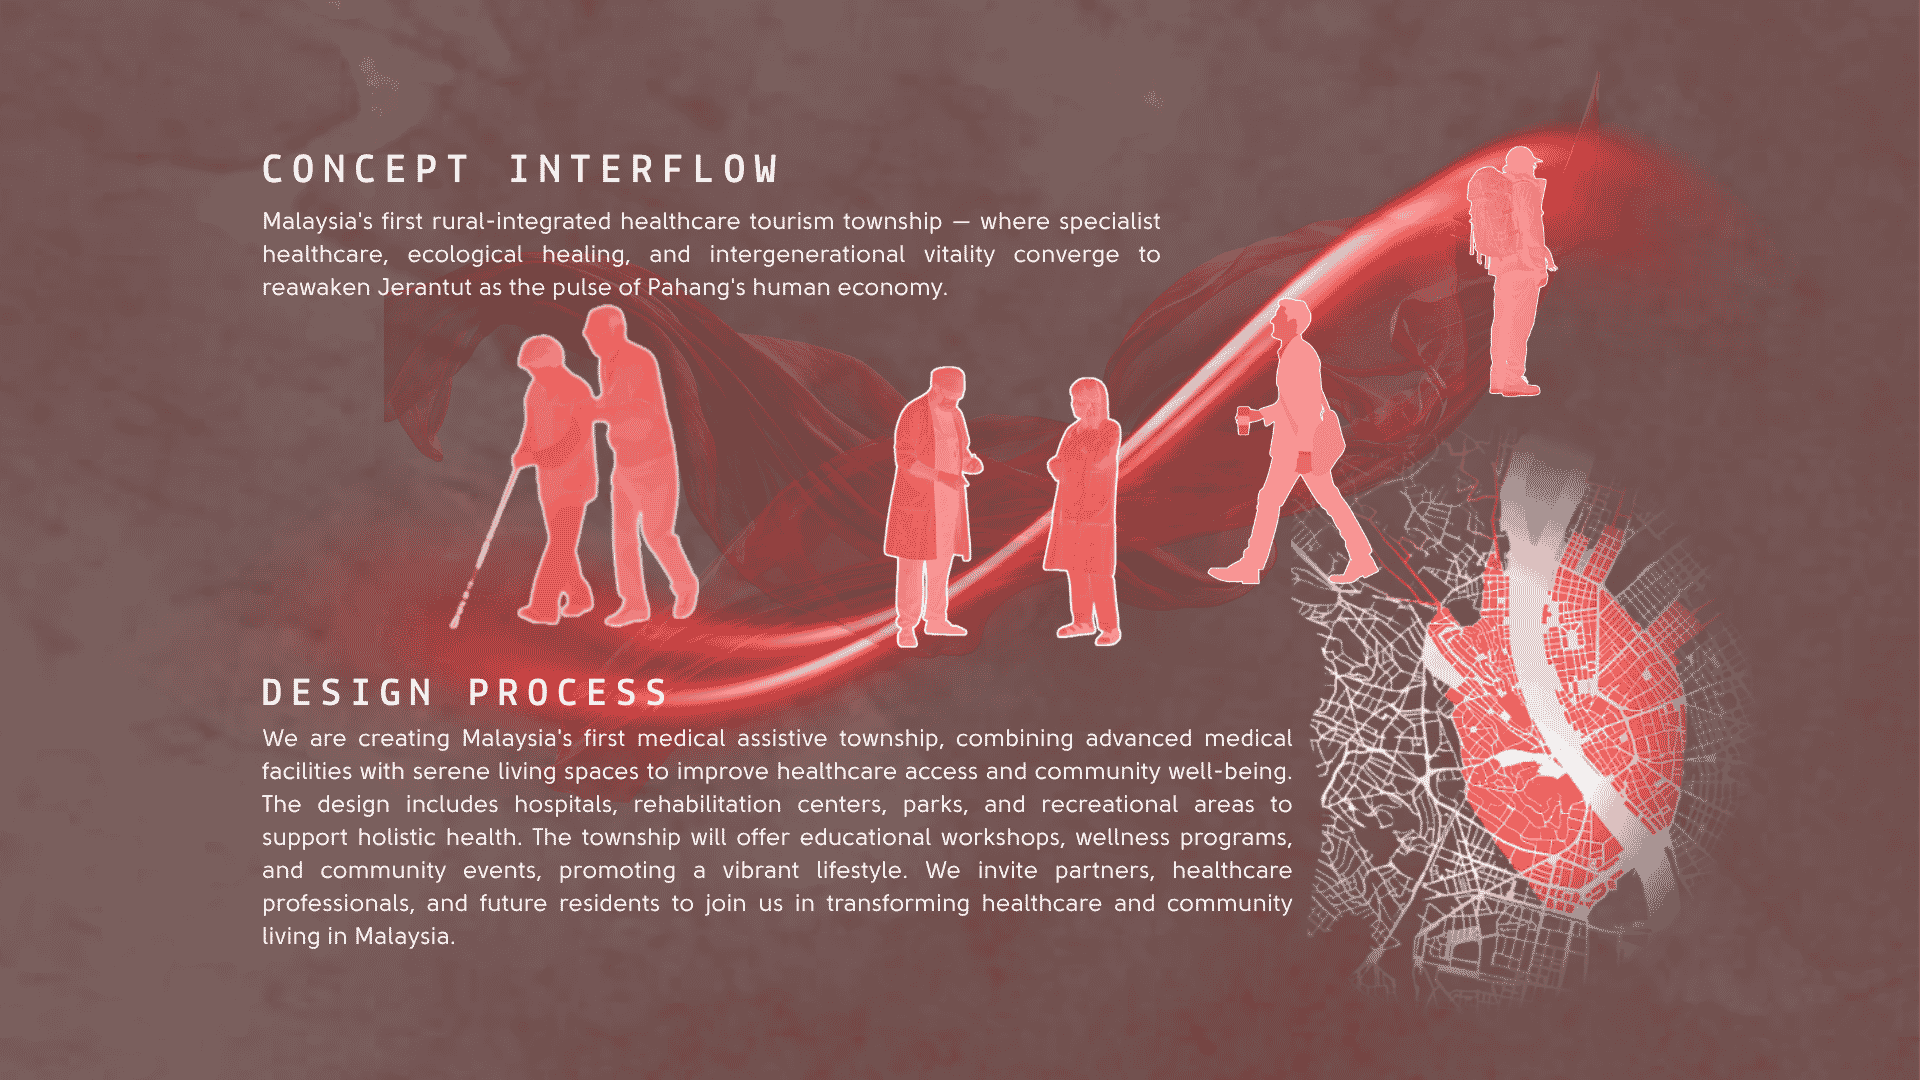
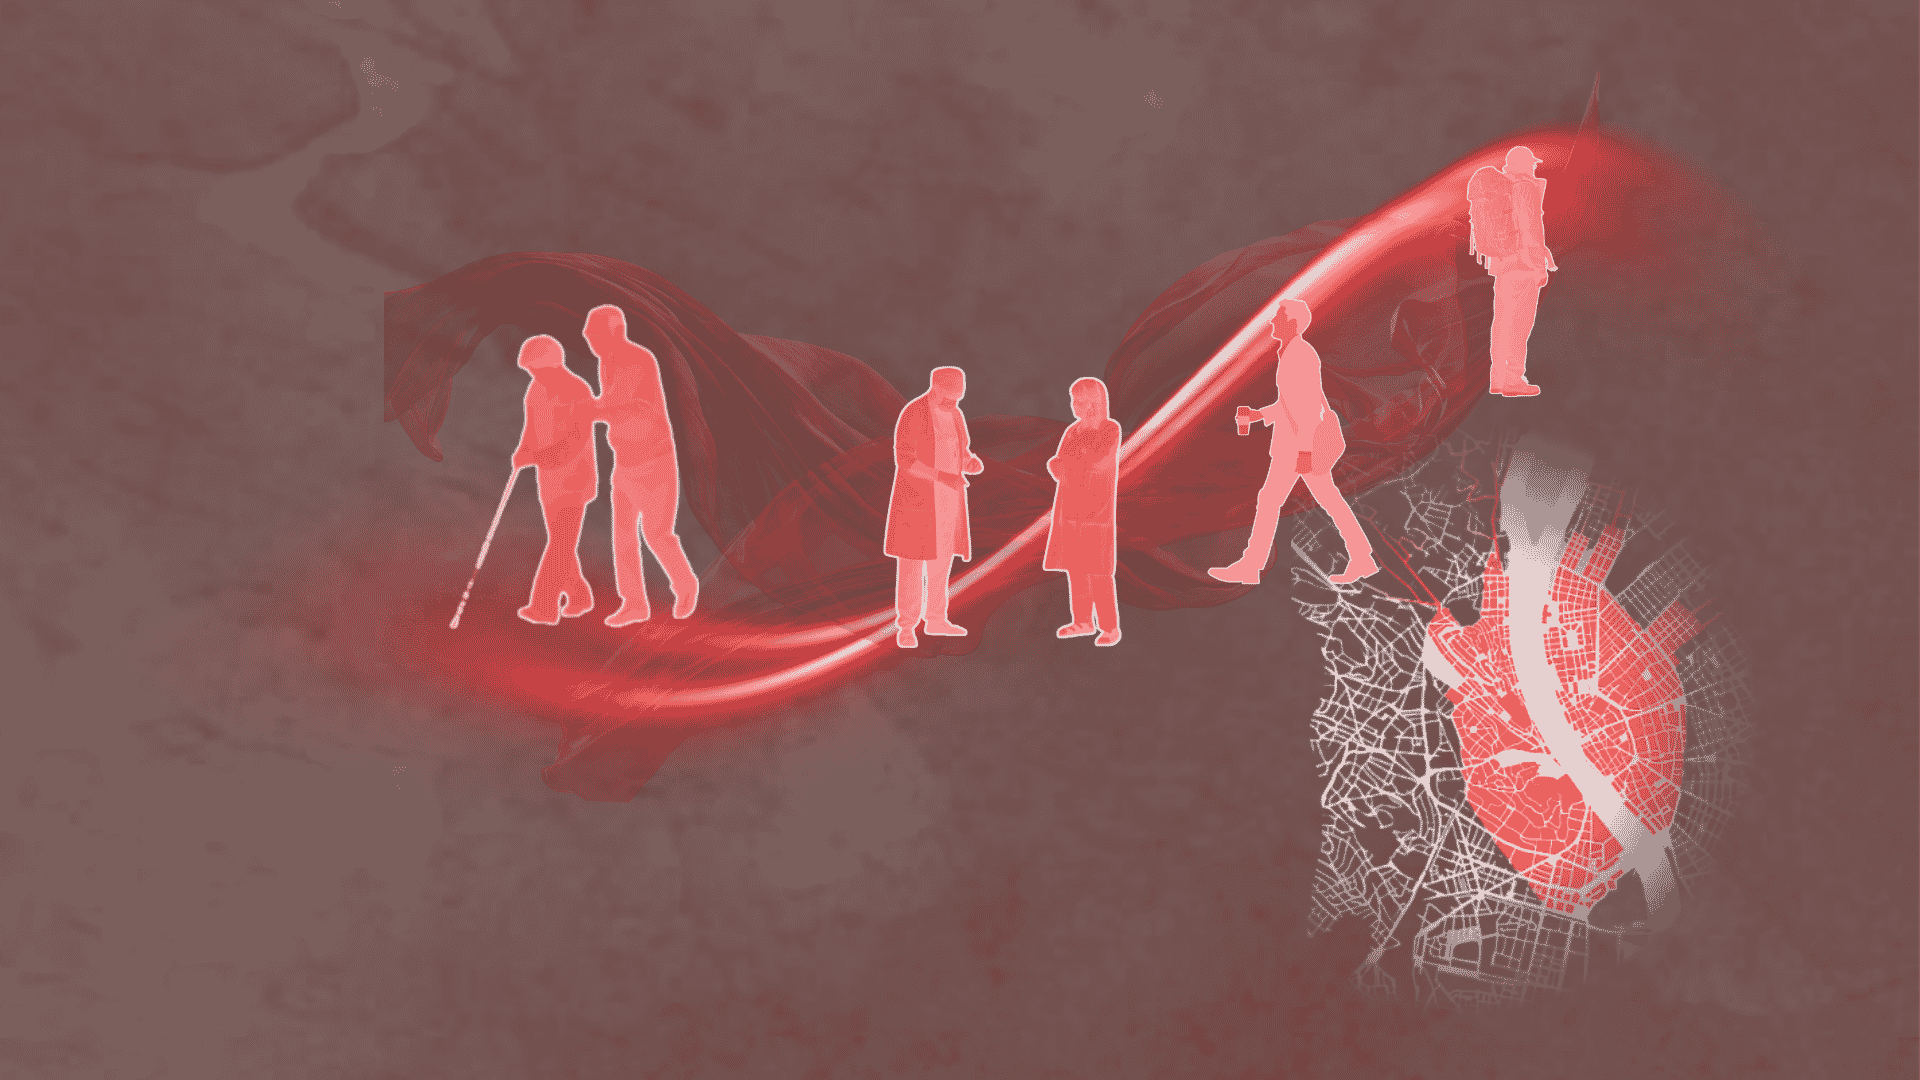
Add files via upload

Changed region(s): [[0.125, 0.0917, 0.9375, 0.8861], [0.7188, 0.4278, 0.875, 0.8556], [0.1875, 0.3361, 0.25, 0.4278]]

diff --git a/index.html b/index.html
@@ -17,6 +17,7 @@
   --nadi-gold: #C6A87C;      /* Champagne Gold */
   --nadi-forest: #4A7055;    /* Premium Eucalyptus Sage */
   --nadi-charcoal: #1C1A19;  /* Soft Warm Black */
+  --nadi-charcoal-light: #2A2A2A;
   
   /* Welcoming Earthy Neutrals */
   --nadi-cream: #F5F2EB;     /* Cashmere Cream (Main BG) */
@@ -100,17 +101,27 @@ section { padding: clamp(80px, 10vw, 140px) 0; position: relative; width: 100%; 
 
 /* ─── HERO CINEMATIC ─── */
 .hero {
-  min-height: 90vh; background: var(--nadi-cream) url('concept.png') center/cover no-repeat;
+  min-height: 90vh; background: var(--nadi-charcoal) url('concept.png') center/cover no-repeat;
   background-attachment: fixed; position: relative; display: flex; align-items: center; justify-content: center; text-align: center;
 }
-.hero-overlay { position: absolute; inset: 0; background: linear-gradient(to bottom, rgba(245,242,235,0.7) 0%, rgba(245,242,235,1) 100%); }
+/* Reverted to the dark cinematic overlay */
+.hero-overlay { position: absolute; inset: 0; background: linear-gradient(to right, rgba(28,26,25,0.95) 0%, rgba(28,26,25,0.7) 50%, rgba(28,26,25,0.4) 100%); }
 .hero-content { position: relative; z-index: 2; max-width: 1000px; padding-top: 40px; }
-.hero-title { font-family: 'Cormorant Garamond', serif; font-size: clamp(45px, 8vw, 110px); font-weight: 300; line-height: 1.05; color: var(--nadi-red); margin-bottom: 30px; }
+/* Changed hero text to light to pop against dark overlay */
+.hero-title { font-family: 'Cormorant Garamond', serif; font-size: clamp(45px, 8vw, 110px); font-weight: 300; line-height: 1.05; color: var(--nadi-pure); margin-bottom: 30px; }
 .hero-quote { font-family: 'Montserrat', sans-serif; font-size: clamp(12px, 2vw, 15px); font-weight: 600; letter-spacing: 3px; text-transform: uppercase; color: var(--nadi-gold); margin-bottom: 35px; line-height: 1.6; }
+
+/* ─── MEDIA & MAP EMBEDS (FIXED ALIGNMENT) ─── */
+.media-wrapper { position: relative; width: 100%; border-radius: 12px; overflow: hidden; box-shadow: 0 20px 50px rgba(0,0,0,0.1); border: 1px solid var(--nadi-sand); background: var(--nadi-pure); }
+.video-container { position: relative; padding-bottom: 56.25%; height: 0; overflow: hidden; }
+/* Forced 100% width and height on iframes */
+.video-container iframe { position: absolute; top: 0; left: 0; width: 100% !important; height: 100% !important; border: 0; }
+.map-iframe { width: 100% !important; height: clamp(350px, 50vw, 500px); border: 0; display: block; }
 
 /* ─── GRIDS & CARDS ─── */
 .grid-2 { display: grid; grid-template-columns: 1fr 1fr; gap: clamp(40px, 8vw, 80px); align-items: center; width: 100%; }
-.img-card { width: 100%; max-width: 100%; border-radius: 12px; box-shadow: 0 25px 60px rgba(0,0,0,0.08); transition: transform 0.6s cubic-bezier(0.2, 0.8, 0.2, 1); border: 1px solid var(--nadi-sand); }
+.grid-3 { display: grid; grid-template-columns: repeat(3, 1fr); gap: clamp(30px, 5vw, 40px); width: 100%; }
+.img-card { width: 100%; max-width: 100%; border-radius: 12px; box-shadow: 0 25px 60px rgba(0,0,0,0.08); transition: transform 0.6s cubic-bezier(0.2, 0.8, 0.2, 1); }
 .img-card:hover { transform: scale(1.02); box-shadow: 0 30px 60px rgba(0,0,0,0.12); }
 
 /* ─── STATS BAR ─── */
@@ -138,9 +149,24 @@ section { padding: clamp(80px, 10vw, 140px) 0; position: relative; width: 100%; 
 .pulse-list li:last-child { border-bottom: none; }
 .pulse-list li strong { color: var(--nadi-red); font-weight: 600; }
 
+/* ─── INTERACTIVE CLOSED LOOP CSS ENGINE (RESTORED TO DARK THEME) ─── */
+.ecosystem-matrix { display: grid; grid-template-columns: 1fr 1fr; gap: 30px; max-width: 1000px; margin: 0 auto; position: relative; padding: 60px 0; }
+.eco-node { background: var(--nadi-charcoal-light); border: 1px solid rgba(255,255,255,0.05); border-radius: 16px; padding: clamp(25px, 5vw, 40px); box-shadow: 0 20px 50px rgba(0,0,0,0.4); transition: all 0.5s ease; position: relative; z-index: 2; overflow: hidden; color: var(--nadi-pure); }
+.eco-node::after { content: ''; position: absolute; inset: 0; background: linear-gradient(135deg, transparent, rgba(198, 168, 124, 0.05)); opacity: 0; transition: opacity 0.5s; }
+.eco-node:hover { transform: translateY(-10px) scale(1.02); border-color: var(--nadi-gold); box-shadow: 0 30px 60px rgba(198, 168, 124, 0.15); }
+.eco-node:hover::after { opacity: 1; }
+.eco-icon { font-family: 'Cormorant Garamond', serif; font-size: 50px; color: var(--nadi-gold); margin-bottom: 20px; font-weight: 300; line-height: 1; }
+.eco-title { font-size: 18px; font-weight: 700; color: var(--nadi-pure); margin-bottom: 15px; text-transform: uppercase; letter-spacing: 2px; }
+.eco-desc { font-size: 14px; color: rgba(255, 255, 255, 0.7); line-height: 1.9; }
+
+/* The Rotating Center Core */
+.matrix-core { position: absolute; top: 50%; left: 50%; transform: translate(-50%, -50%); width: 160px; height: 160px; background: var(--nadi-charcoal); border-radius: 50%; border: 2px dashed var(--nadi-gold); display: flex; align-items: center; justify-content: center; text-align: center; font-size: 13px; font-weight: 700; letter-spacing: 3px; color: var(--nadi-red); z-index: 1; box-shadow: 0 0 40px rgba(0,0,0,0.8); }
+.matrix-core::before { content: ''; position: absolute; inset: 10px; border: 1px solid rgba(198, 168, 124, 0.3); border-radius: 50%; animation: spinSlow 20s linear infinite; }
+.matrix-core::after { content: ''; position: absolute; inset: -20px; border: 1px dashed rgba(198, 168, 124, 0.1); border-radius: 50%; animation: spinSlow 30s linear infinite reverse; }
+@keyframes spinSlow { 100% { transform: rotate(360deg); } }
+
 /* ─── CHARTS WRAPPER ─── */
 .chart-box { background: var(--nadi-pure); padding: clamp(20px, 4vw, 40px); border-radius: 12px; box-shadow: 0 15px 40px rgba(0,0,0,0.05); border: 1px solid var(--nadi-sand); width: 100%; position: relative; }
-/* Essential fix for Chart.js rendering blank inside tabs */
 .chart-container { position: relative; height: 400px; width: 100%; }
 .theme-dark .chart-box { background: var(--nadi-charcoal-light); border-color: rgba(255,255,255,0.05); box-shadow: 0 20px 60px rgba(0,0,0,0.4); }
 
@@ -163,9 +189,10 @@ section { padding: clamp(80px, 10vw, 140px) 0; position: relative; width: 100%; 
   .tab-buttons { display: grid; grid-template-columns: 1fr 1fr; width: 100%; gap: 10px; }
   .tab-btn { width: 100%; padding: 12px 5px; font-size: 10px; white-space: normal; line-height: 1.4; text-align: center; border-radius: 8px; }
 
-  .grid-2, .phase-panel { grid-template-columns: 1fr; width: 100%; }
+  .grid-2, .phase-panel, .ecosystem-matrix { grid-template-columns: 1fr; width: 100%; }
   .stats-bar { grid-template-columns: 1fr 1fr; margin-top: -30px; }
-  .hero-overlay { background: linear-gradient(to bottom, rgba(245,242,235,0.85) 0%, rgba(245,242,235,1) 100%); }
+  
+  .matrix-core { display: none; }
 
   .timeline-btn-group { display: flex; flex-direction: column; gap: 10px; border-bottom: none; margin-bottom: 40px; }
   .time-btn { border: 1px solid var(--nadi-sand); border-radius: 8px; padding: 15px; margin-bottom: 0; }
@@ -206,10 +233,10 @@ section { padding: clamp(80px, 10vw, 140px) 0; position: relative; width: 100%; 
     <div class="hero-overlay"></div>
     <div class="container relative">
       <div class="hero-content reveal visible" style="margin: 0 auto; text-align: center;">
-        <div class="eyebrow" style="justify-content: center;">A Visionary Masterpiece</div>
+        <div class="eyebrow" style="justify-content: center; color: var(--nadi-gold-light);">A Visionary Masterpiece</div>
         <h1 class="hero-title">Reawakening The<br><strong>Pulse of Jerantut</strong></h1>
         <div class="hero-quote">"A development that serves only one demographic is a facility. A development that serves all three simultaneously is a township."</div>
-        <p class="desc" style="margin: 0 auto;">
+        <p class="desc" style="color: rgba(244, 240, 234, 0.8); margin: 0 auto;">
           Born from a profound respect for Pahang’s natural heritage and a bold vision for its future, NADI emerges as Malaysia's premier rural-integrated healthcare tourism destination. We are meticulously weaving together specialist healthcare, ecological preservation, and intergenerational vitality to establish an unprecedented benchmark in sustainable, human-centric urban design.
         </p>
       </div>
@@ -263,14 +290,14 @@ section { padding: clamp(80px, 10vw, 140px) 0; position: relative; width: 100%; 
   </section>
 
   <!-- Demographics Chart -->
-  <section style="background: var(--nadi-sand);">
+  <section class="theme-sand">
     <div class="container grid-2">
       <div class="text-content reveal">
         <div class="eyebrow">The Structural Gap</div>
         <h2 class="title">Demographic <em>Imperative</em></h2>
         <p class="desc">The district faces a severe housing deficit of 7,876 units amid strong owner-occupier demand. Concurrently, Jerantut is transitioning into an aging society, with the 65+ demographic exceeding the 7% threshold. NADI's tripartite mission is a direct architectural response: to foster a resilient retirement ecosystem, capture the global wellness market, and staunch youth outmigration via high-yield technical employment and bespoke housing provisions.</p>
       </div>
-      <div class="chart-box reveal" style="transition-delay: 0.2s; border: none;">
+      <div class="chart-box reveal" style="transition-delay: 0.2s; background: var(--nadi-cream); border: none;">
         <div class="chart-container">
           <canvas id="housingChart"></canvas>
         </div>
@@ -292,13 +319,13 @@ section { padding: clamp(80px, 10vw, 140px) 0; position: relative; width: 100%; 
       </div>
       
       <div class="reveal" style="margin-bottom: 60px;">
-        <img src="FINAL LAYOUT NADI-1.png" alt="NADI Masterplan Final Layout" class="img-card" onerror="this.src='FINAL LAYOUT NADI-1.jpg'">
+        <img src="FINAL LAYOUT NADI-1.jpg" alt="NADI Masterplan Final Layout" class="img-card" onerror="this.src='FINAL LAYOUT NADI-1.png'">
       </div>
 
       <div class="grid-2 text-left mt-5" style="margin-top: 100px;">
         <div class="reveal">
           <div class="chart-box dark-panel">
-            <h3 style="text-align: center; color: var(--nadi-gold); font-family: 'Cormorant Garamond', serif; font-size: 26px; margin-bottom: 20px;">The 51/49 Equilibrium</h3>
+            <h3 style="text-align: center; color: var(--nadi-gold); font-family: 'Cormorant Garamond', serif; font-size: 24px; margin-bottom: 20px;">The 51/49 Equilibrium</h3>
             <div class="chart-container" style="height: 350px;">
               <canvas id="allocationChart"></canvas>
             </div>
@@ -485,7 +512,7 @@ section { padding: clamp(80px, 10vw, 140px) 0; position: relative; width: 100%; 
         <div class="eyebrow" style="color: var(--nadi-red);">Value Capture & Yield</div>
         <h2 class="title" style="color: var(--text-dark);">Financial <em>Resilience</em></h2>
         <p class="desc" style="color: var(--text-muted);">Employing the rigorous Residual Method of valuation, NADI establishes an unbreakable financial architecture. By defining the site's "highest and best use" via international medical tourism and a bio-medical industrial hub, the project unlocks immense latent potential.</p>
-        <p class="desc" style="color: var(--text-muted); margin-top: 15px;">The strategic project mix delivers a flawlessly balanced investment profile. We marry the steadfast "good security" of the residential sector with the unprecedented "higher yields" commanded by our specialized industrial and commercial assets.</p>
+        <p class="desc" style="margin-top: 15px; color: var(--text-muted);">The strategic project mix delivers a flawlessly balanced investment profile. We marry the steadfast "good security" of the residential sector with the unprecedented "higher yields" commanded by our specialized industrial and commercial assets.</p>
         
         <div style="margin-top: 40px; background: var(--nadi-pure); padding: 35px; border-radius: 12px; border-left: 5px solid var(--nadi-red); box-shadow: 0 10px 30px rgba(0,0,0,0.05);">
           <div style="font-size: 12px; text-transform: uppercase; letter-spacing: 3px; margin-bottom: 10px; color: var(--text-muted); font-weight: 600;">Total Project Market Value (Residual)</div>
@@ -501,11 +528,11 @@ section { padding: clamp(80px, 10vw, 140px) 0; position: relative; width: 100%; 
     </div>
   </section>
 
-  <!-- CSS INTERACTIVE CLOSED LOOP ENGINE -->
-  <section style="background: var(--nadi-pure); padding: 120px 0;">
+  <!-- CSS INTERACTIVE CLOSED LOOP ENGINE (DARK THEME) -->
+  <section class="theme-dark" style="padding: 120px 0;">
     <div class="container">
       <div class="section-header text-center reveal">
-        <div class="eyebrow" style="justify-content: center;">Systemic Integration</div>
+        <div class="eyebrow" style="justify-content: center; color: var(--nadi-gold-light);">Systemic Integration</div>
         <h2 class="title">The Close-Loop <em>Ecosystem</em></h2>
         <p class="desc mx-auto">Project NADI transcends traditional zoning; it is a meticulously engineered closed-loop economy. Every precinct operates in absolute symbiosis, endlessly feeding resources, talent, and capital into the next.</p>
       </div>
@@ -614,7 +641,7 @@ section { padding: clamp(80px, 10vw, 140px) 0; position: relative; width: 100%; 
   // 1. Navbar Glassmorphism Effect
   const nav = document.querySelector('nav');
   window.addEventListener('scroll', () => {
-    if (window.scrollY > 10) nav.style.boxShadow = '0 15px 40px rgba(0,0,0,0.1)';
+    if (window.scrollY > 10) nav.style.boxShadow = '0 15px 40px rgba(0,0,0,0.15)';
     else nav.style.boxShadow = '0 4px 20px rgba(0,0,0,0.02)';
   });
 
@@ -652,9 +679,7 @@ section { padding: clamp(80px, 10vw, 140px) 0; position: relative; width: 100%; 
   document.querySelectorAll('.reveal').forEach(el => scrollObserver.observe(el));
 
   // 3. Tab Switching Logic
-  let housingChartInstance = null;
-  let allocChartInstance = null;
-  let industryChartInstance = null;
+  let chartsInitialized = false;
 
   function switchTab(tabId, btnElement) {
     document.querySelectorAll('.tab-pane').forEach(tab => tab.classList.remove('active'));
@@ -672,88 +697,83 @@ section { padding: clamp(80px, 10vw, 140px) 0; position: relative; width: 100%; 
       scrollObserver.observe(el);
     });
 
-    // Timeout ensures the container has physical dimensions before Chart.js tries to draw
-    setTimeout(() => {
-      if(tabId === 'tab-genesis') initHousingChart();
-      if(tabId === 'tab-masterplan') initAllocChart();
-      if(tabId === 'tab-economics') initIndustryChart();
-    }, 150);
+    if(!chartsInitialized && (tabId === 'tab-genesis' || tabId === 'tab-masterplan' || tabId === 'tab-economics')) {
+      initCharts();
+    }
   }
 
-  // 4. Chart.js Implementations (Destroy old instances to prevent ghosting bugs)
-  function initHousingChart() {
-    const ctx = document.getElementById('housingChart');
-    if(!ctx) return;
-    if(housingChartInstance) housingChartInstance.destroy();
-    
-    housingChartInstance = new Chart(ctx.getContext('2d'), {
-      type: 'bar',
-      data: {
-        labels: ['Degupan & Serenia', 'Forestia', 'Eco-Nadi', 'Sanubari'],
-        datasets: [{
-          label: 'Proposed Units',
-          data: [2008, 530, 132, 231],
-          backgroundColor: '#8C1D25',
-          borderRadius: 6,
-          hoverBackgroundColor: '#C6A87C'
-        }]
-      },
-      options: {
-        responsive: true, maintainAspectRatio: false,
-        plugins: { legend: { display: false }, title: { display: true, text: 'Housing Provision Matrix', font: { family: 'Montserrat', size: 14 } } },
-        scales: { y: { beginAtZero: true, grid: { color: 'rgba(0,0,0,0.05)' } }, x: { grid: { display: false } } },
-        animation: { duration: 1500, easing: 'easeOutQuart' }
-      }
-    });
-  }
-
-  function initAllocChart() {
-    const ctx = document.getElementById('allocationChart');
-    if(!ctx) return;
-    if(allocChartInstance) allocChartInstance.destroy();
-
-    allocChartInstance = new Chart(ctx.getContext('2d'), {
-      type: 'doughnut',
-      data: {
-        labels: ['Sellable Land (571.77 ac)', 'Non-Sellable Land (538.87 ac)'],
-        datasets: [{
-          data: [51, 49], 
-          backgroundColor: ['#C6A87C', '#4A7055'], /* The New Premium Sage Green */
-          borderWidth: 0, hoverOffset: 10
-        }]
-      },
-      options: {
-        responsive: true, maintainAspectRatio: false, cutout: '55%',
-        plugins: { 
-          legend: { position: 'bottom', labels: { color: '#F5F2EB', font: { family: 'Montserrat' }, padding: 20 } },
-          title: { display: false }
+  // 4. Chart.js Implementations
+  function initCharts() {
+    // Housing Chart (Genesis Tab)
+    const ctxHousing = document.getElementById('housingChart');
+    if(ctxHousing) {
+      new Chart(ctxHousing.getContext('2d'), {
+        type: 'bar',
+        data: {
+          labels: ['Degupan & Serenia', 'Forestia', 'Eco-Nadi', 'Sanubari'],
+          datasets: [{
+            label: 'Proposed Units',
+            data: [2008, 530, 132, 231],
+            backgroundColor: '#8C1D25',
+            borderRadius: 6,
+            hoverBackgroundColor: '#C6A87C'
+          }]
         },
-        animation: { duration: 2000, animateScale: true }
-      }
-    });
-  }
+        options: {
+          responsive: true, maintainAspectRatio: false,
+          plugins: { legend: { display: false }, title: { display: true, text: 'Strategic Housing Provision', font: { family: 'Montserrat', size: 14 } } },
+          scales: { y: { beginAtZero: true, grid: { color: 'rgba(0,0,0,0.05)' } }, x: { grid: { display: false } } },
+          animation: { duration: 2000, easing: 'easeOutQuart' }
+        }
+      });
+    }
 
-  function initIndustryChart() {
-    const ctx = document.getElementById('industryChart');
-    if(!ctx) return;
-    if(industryChartInstance) industryChartInstance.destroy();
+    // Land Allocation Chart (Dark Mode - Masterplan Tab)
+    const ctxAlloc = document.getElementById('allocationChart');
+    if(ctxAlloc) {
+      new Chart(ctxAlloc.getContext('2d'), {
+        type: 'doughnut',
+        data: {
+          labels: ['Sellable Land (571.77 ac)', 'Non-Sellable Land (538.87 ac)'],
+          datasets: [{
+            data: [51, 49], 
+            backgroundColor: ['#C6A87C', '#4A7055'], /* The New Premium Sage Green */
+            borderWidth: 0, hoverOffset: 10
+          }]
+        },
+        options: {
+          responsive: true, maintainAspectRatio: false, cutout: '55%',
+          plugins: { 
+            legend: { position: 'bottom', labels: { color: '#F5F2EB', font: { family: 'Montserrat' }, padding: 20 } },
+            title: { display: false }
+          },
+          animation: { duration: 2500, animateScale: true }
+        }
+      });
+    }
 
-    industryChartInstance = new Chart(ctx.getContext('2d'), {
-      type: 'doughnut',
-      data: {
-        labels: ['Terrace Factory (Incubators)', 'Nutraceutical Semi-D', 'Medical Detached', 'Free Standing Pharma'],
-        datasets: [{
-          data: [45, 25, 15, 15], 
-          backgroundColor: ['#1C1A19', '#8C1D25', '#C6A87C', '#4A7055'],
-          borderWidth: 0, hoverOffset: 10
-        }]
-      },
-      options: {
-        responsive: true, maintainAspectRatio: false,
-        plugins: { legend: { position: 'bottom', labels: { font: { family: 'Montserrat' } } } },
-        animation: { duration: 2000, animateScale: true }
-      }
-    });
+    // Industrial Potential Chart
+    const ctxInd = document.getElementById('industryChart');
+    if(ctxInd) {
+      new Chart(ctxInd.getContext('2d'), {
+        type: 'doughnut',
+        data: {
+          labels: ['Terrace Factory (Incubators)', 'Nutraceutical Semi-D', 'Medical Detached', 'Free Standing Pharma'],
+          datasets: [{
+            data: [45, 25, 15, 15], 
+            backgroundColor: ['#1C1A19', '#8C1D25', '#C6A87C', '#4A7055'],
+            borderWidth: 0, hoverOffset: 10
+          }]
+        },
+        options: {
+          responsive: true, maintainAspectRatio: false,
+          plugins: { legend: { position: 'bottom', labels: { font: { family: 'Montserrat' } } } },
+          animation: { duration: 2000, animateScale: true }
+        }
+      });
+    }
+
+    chartsInitialized = true;
   }
 
   // 5. Phasing Interactive Timeline